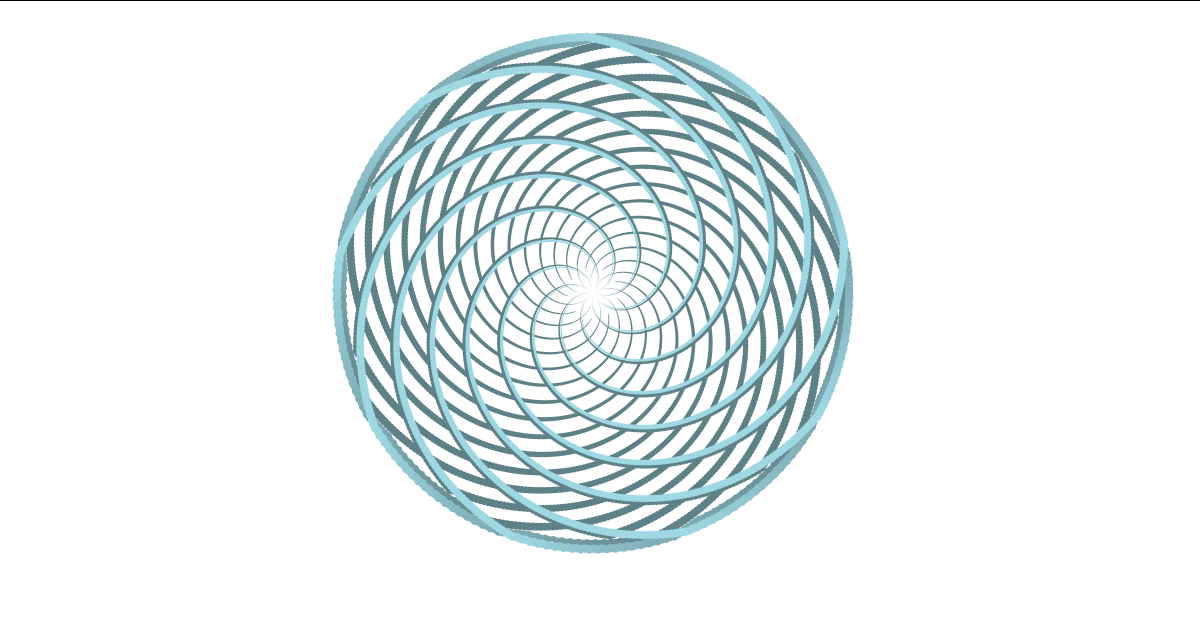
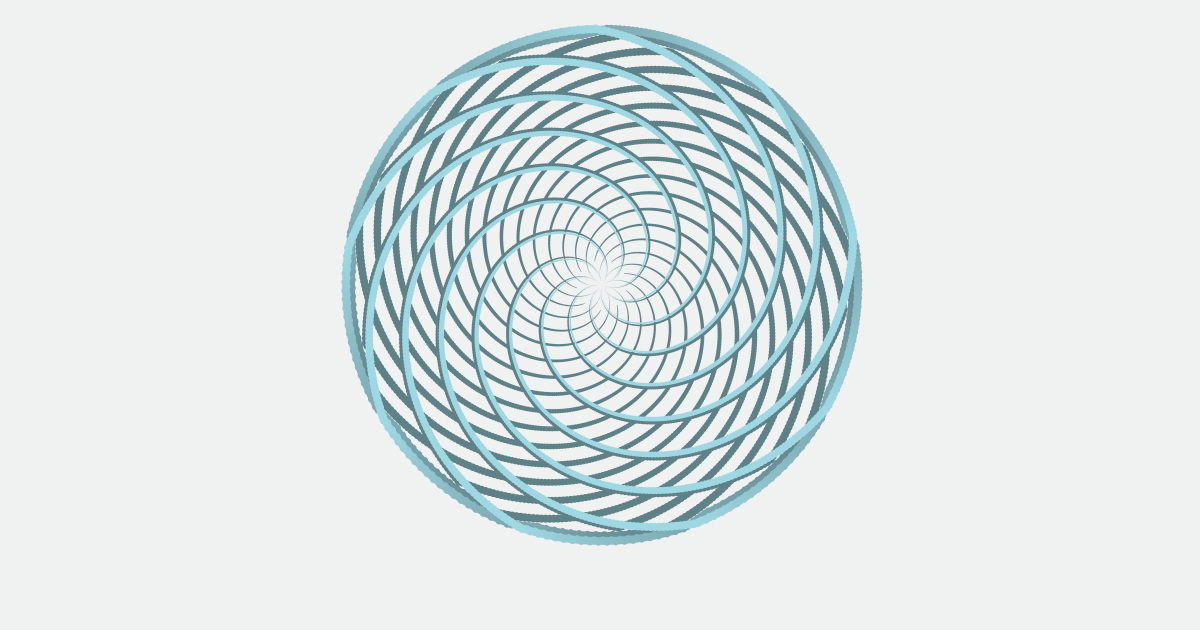
relative path for index, new background color for sketch 004

Changed region(s): [[0.2775, 0.0302, 0.74, 0.8746]]

diff --git a/index.html b/index.html
@@ -72,33 +72,41 @@
 <body>
   <div class="grid-container">
     <div class="card">
-      <div class="bg-img"><a href="https://charted.xyz/sketches/001/"><img src="https://charted.xyz/sketches/001/001.png" alt=""></a></div>
+      <div class="bg-img"><a href="./sketches/001/"><img src="./sketches/001/001.png" alt=""></a></div>
       <div class="content">
-        <a href="https://charted.xyz/sketches/001/"><h3>Sketches: 001</h3></a>
+        <a href="./sketches/001/"><h3>Sketch: 001</h3></a>
         <p>Find colors for your next project</p>
       </div>
     </div>
 
     <div class="card">
-      <div class="bg-img"><a href="https://charted.xyz/sketches/002/"><img src="https://charted.xyz/sketches/002/002.png" alt=""></a></div>
+      <div class="bg-img"><a href="./sketches/002/"><img src="./sketches/002/002.png" alt=""></a></div>
       <div class="content">
-        <a href="https://charted.xyz/sketches/002/"><h3>Sketches: 002</h3></a>
+        <a href="./sketches/002/"><h3>Sketch: 002</h3></a>
         <p>P5.js sketch, pulsing squares</p>
       </div>
     </div>
 
     <div class="card">
-      <div class="bg-img"><a href="https://charted.xyz/sketches/003/"><img src="https://charted.xyz/sketches/003/003.png" alt=""></a></div>
+      <div class="bg-img"><a href="./sketches/003/"><img src="./sketches/003/003.png" alt=""></a></div>
       <div class="content">
-        <a href="https://charted.xyz/sketches/003/"><h3>Sketches: 003</h3></a>
+        <a href="./sketches/003/"><h3>Sketch: 003</h3></a>
         <p>P5.js sketch, pulsing bubbles</p>
       </div>
     </div>
 
     <div class="card">
-      <div class="bg-img"><a href="https://charted.xyz/charts/mps/"><img src="https://charted.xyz/charts/mps/mps.png" alt=""></a></div>
+      <div class="bg-img"><a href="./sketches/004/"><img src="./sketches/004/004.png" alt=""></a></div>
       <div class="content">
-        <a href="https://charted.xyz/charts/mps/"><h3>Charts: Чоловіки і жінки у Верховній Раді</h3></a>
+        <a href="./sketches/004/"><h3>Sketch: 004</h3></a>
+        <p>P5.js sketch, spiraling</p>
+      </div>
+    </div>
+
+    <div class="card">
+      <div class="bg-img"><a href="./charts/mps/"><img src="./charts/mps/mps.png" alt=""></a></div>
+      <div class="content">
+        <a href="./charts/mps/"><h3>Chart: Чоловіки і жінки у Верховній Раді</h3></a>
         <p>Розподіл депутатів Верховної Ради за віком набуття повноважень та статтю</p>
       </div>
     </div>

diff --git a/sketches/004/index.html b/sketches/004/index.html
@@ -16,6 +16,7 @@
   <script src="https://cdnjs.cloudflare.com/ajax/libs/p5.js/0.8.0/p5.js"></script>
   <style media="screen">
   html, body {
+    background-color: #F0F1F1;
     margin: 0;
     padding: 0;
     overflow: hidden;
@@ -43,7 +44,7 @@ function setup() {
   createCanvas(width, height);
   pixelDensity(2);
   colorMode(HSB);
-  background('white');
+  background('#F0F1F1');
   noStroke();
   fill(190, 30, 52.9);
 }
